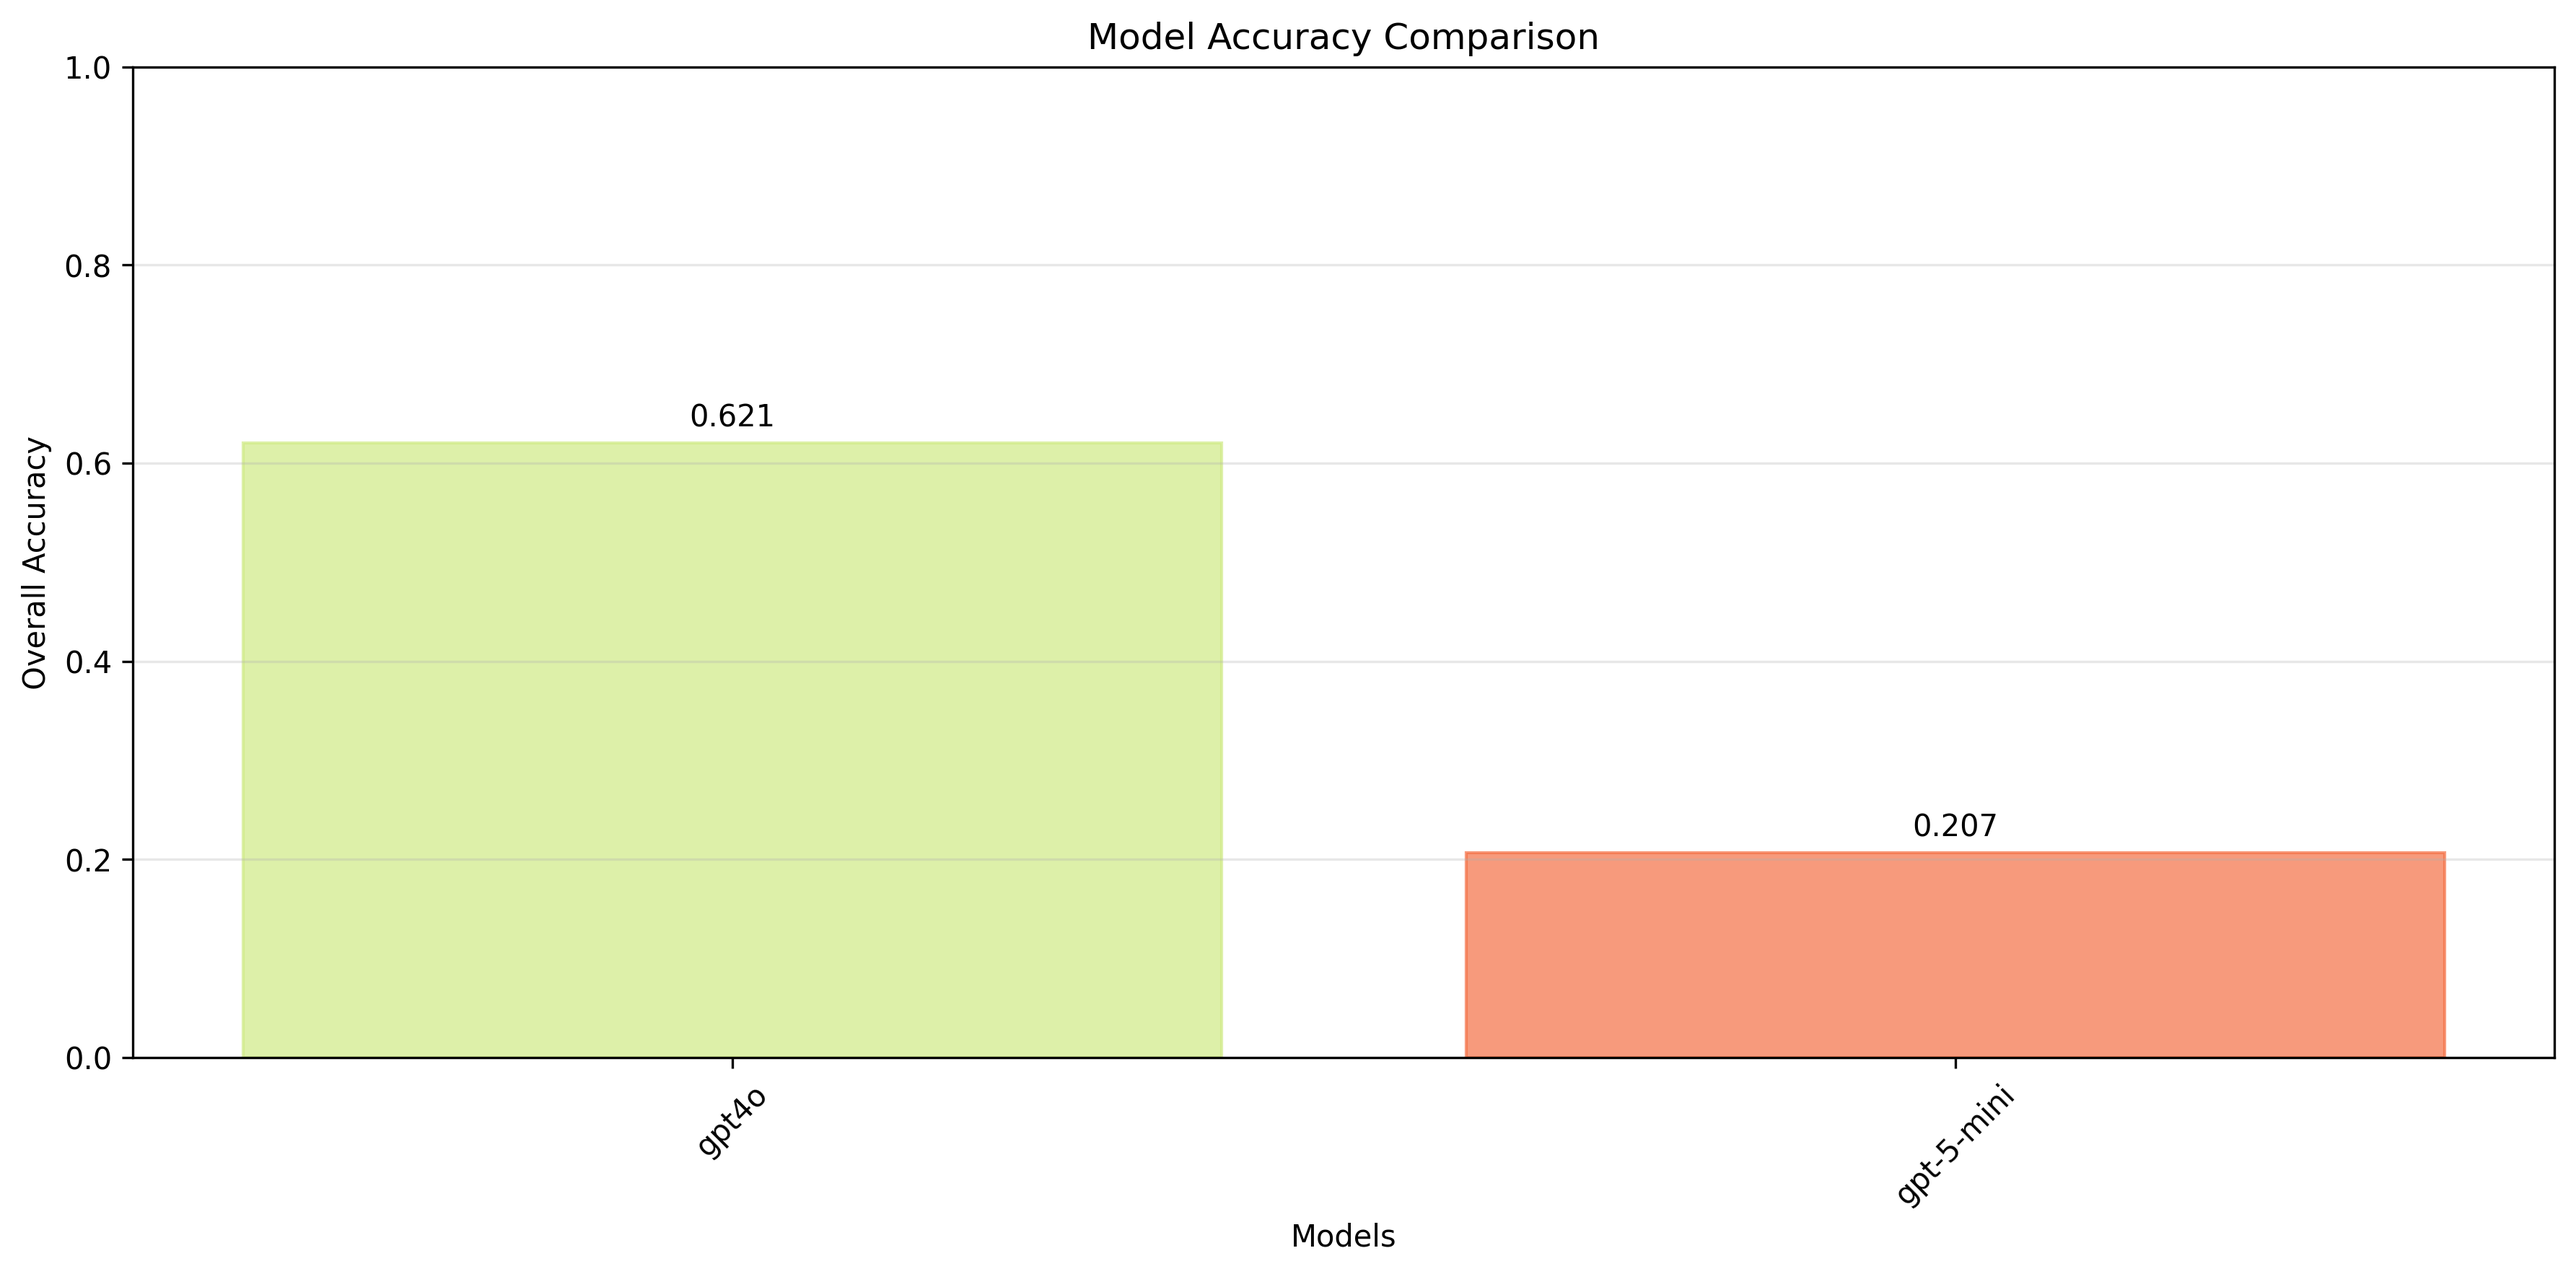
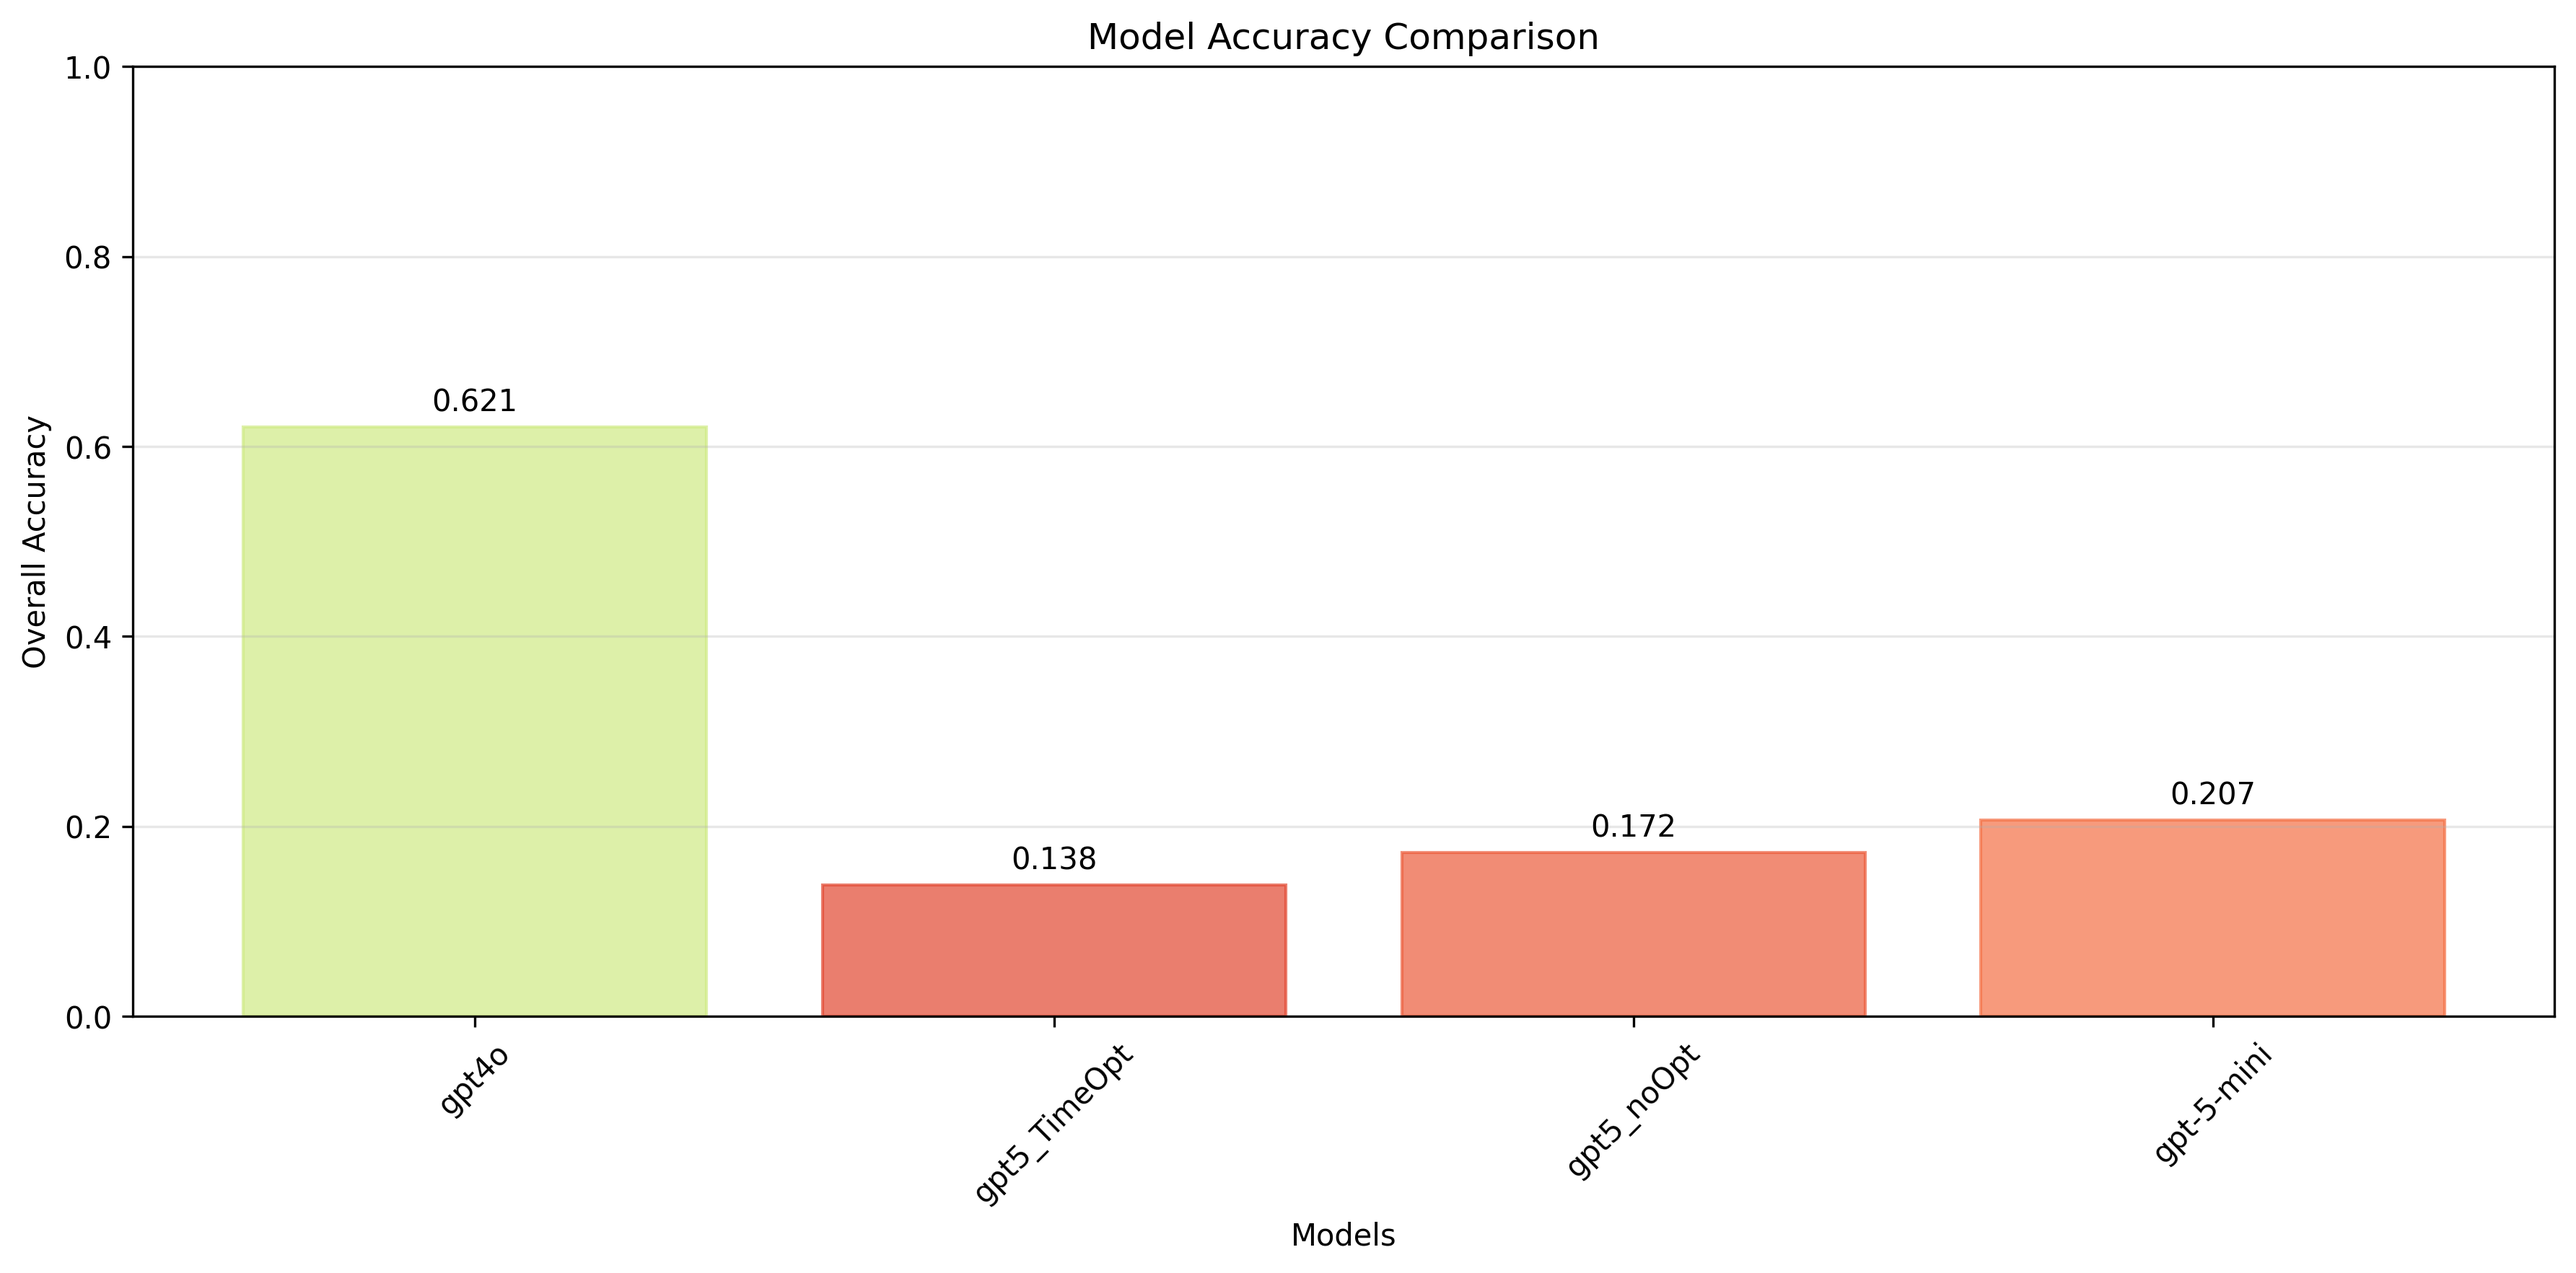
Add comprehensive documentation for model evaluation system

diff --git a/EVALUATION_README.md b/EVALUATION_README.md
@@ -1,0 +1,77 @@
+# Model Performance Evaluation
+
+This module provides comprehensive evaluation tools for assessing the performance of different data extraction models.
+
+## Features
+
+- **Accuracy Evaluation**: Compare model predictions against ground truth data field-by-field
+- **Cost Analysis**: Calculate total costs from usage CSV files
+- **Comprehensive Metrics**: Overall accuracy, per-file accuracy, standard deviation, cost analysis
+- **Visualizations**: 
+  - Cost vs Accuracy scatter plots
+  - Pareto frontier analysis for optimal trade-offs
+  - Accuracy comparison bar charts
+- **Flexible CLI**: Command-line interface for customizable evaluations
+
+## Usage
+
+### Basic Evaluation
+```bash
+python src/evaluate_tradeoff.py
+```
+
+### Evaluate Specific Models
+```bash
+python src/evaluate_tradeoff.py --models gpt4o gpt-5-mini
+```
+
+### Custom Configuration
+```bash
+python src/evaluate_tradeoff.py \
+    --ground-truth-dir ground_truth \
+    --results-dir . \
+    --reports-dir reports \
+    --tolerance 0.01
+```
+
+## Directory Structure
+
+```
+├── ground_truth/           # Ground truth JSON files
+│   ├── Image.json
+│   └── Image-2.json
+├── results_<model>/        # Model prediction results
+│   ├── *.json             # Prediction files
+│   └── usage/             # Cost tracking CSV files
+└── reports/               # Generated evaluation reports
+    ├── agg_metrics.csv    # Aggregate metrics
+    ├── cost_vs_accuracy.png
+    ├── pareto_frontier.png
+    └── accuracy_comparison.png
+```
+
+## Output Metrics
+
+- **total_files**: Number of files processed
+- **total_fields**: Total number of fields evaluated
+- **correct_fields**: Number of correctly predicted fields
+- **overall_accuracy**: Ratio of correct to total fields
+- **mean_file_accuracy**: Average per-file accuracy
+- **std_file_accuracy**: Standard deviation of file accuracies
+- **total_cost_usd**: Total cost in USD from usage files
+
+## Evaluation Results
+
+Based on the current evaluation:
+
+| Model | Accuracy | Cost ($) | Value (Acc/Cost) |
+|-------|----------|----------|------------------|
+| gpt4o | 0.621 | 0.0682 | 9.1 |
+| gpt5_TimeOpt | 0.138 | 0.0584 | 2.4 |
+| gpt5_noOpt | 0.172 | 0.3394 | 0.5 |
+| gpt-5-mini | 0.207 | 0.1377 | 1.5 |
+
+**Key Findings:**
+- **Best Accuracy**: gpt4o (62.1%)
+- **Lowest Cost**: gpt5_TimeOpt ($0.0584)
+- **Best Value**: gpt4o (9.1 accuracy points per dollar)
